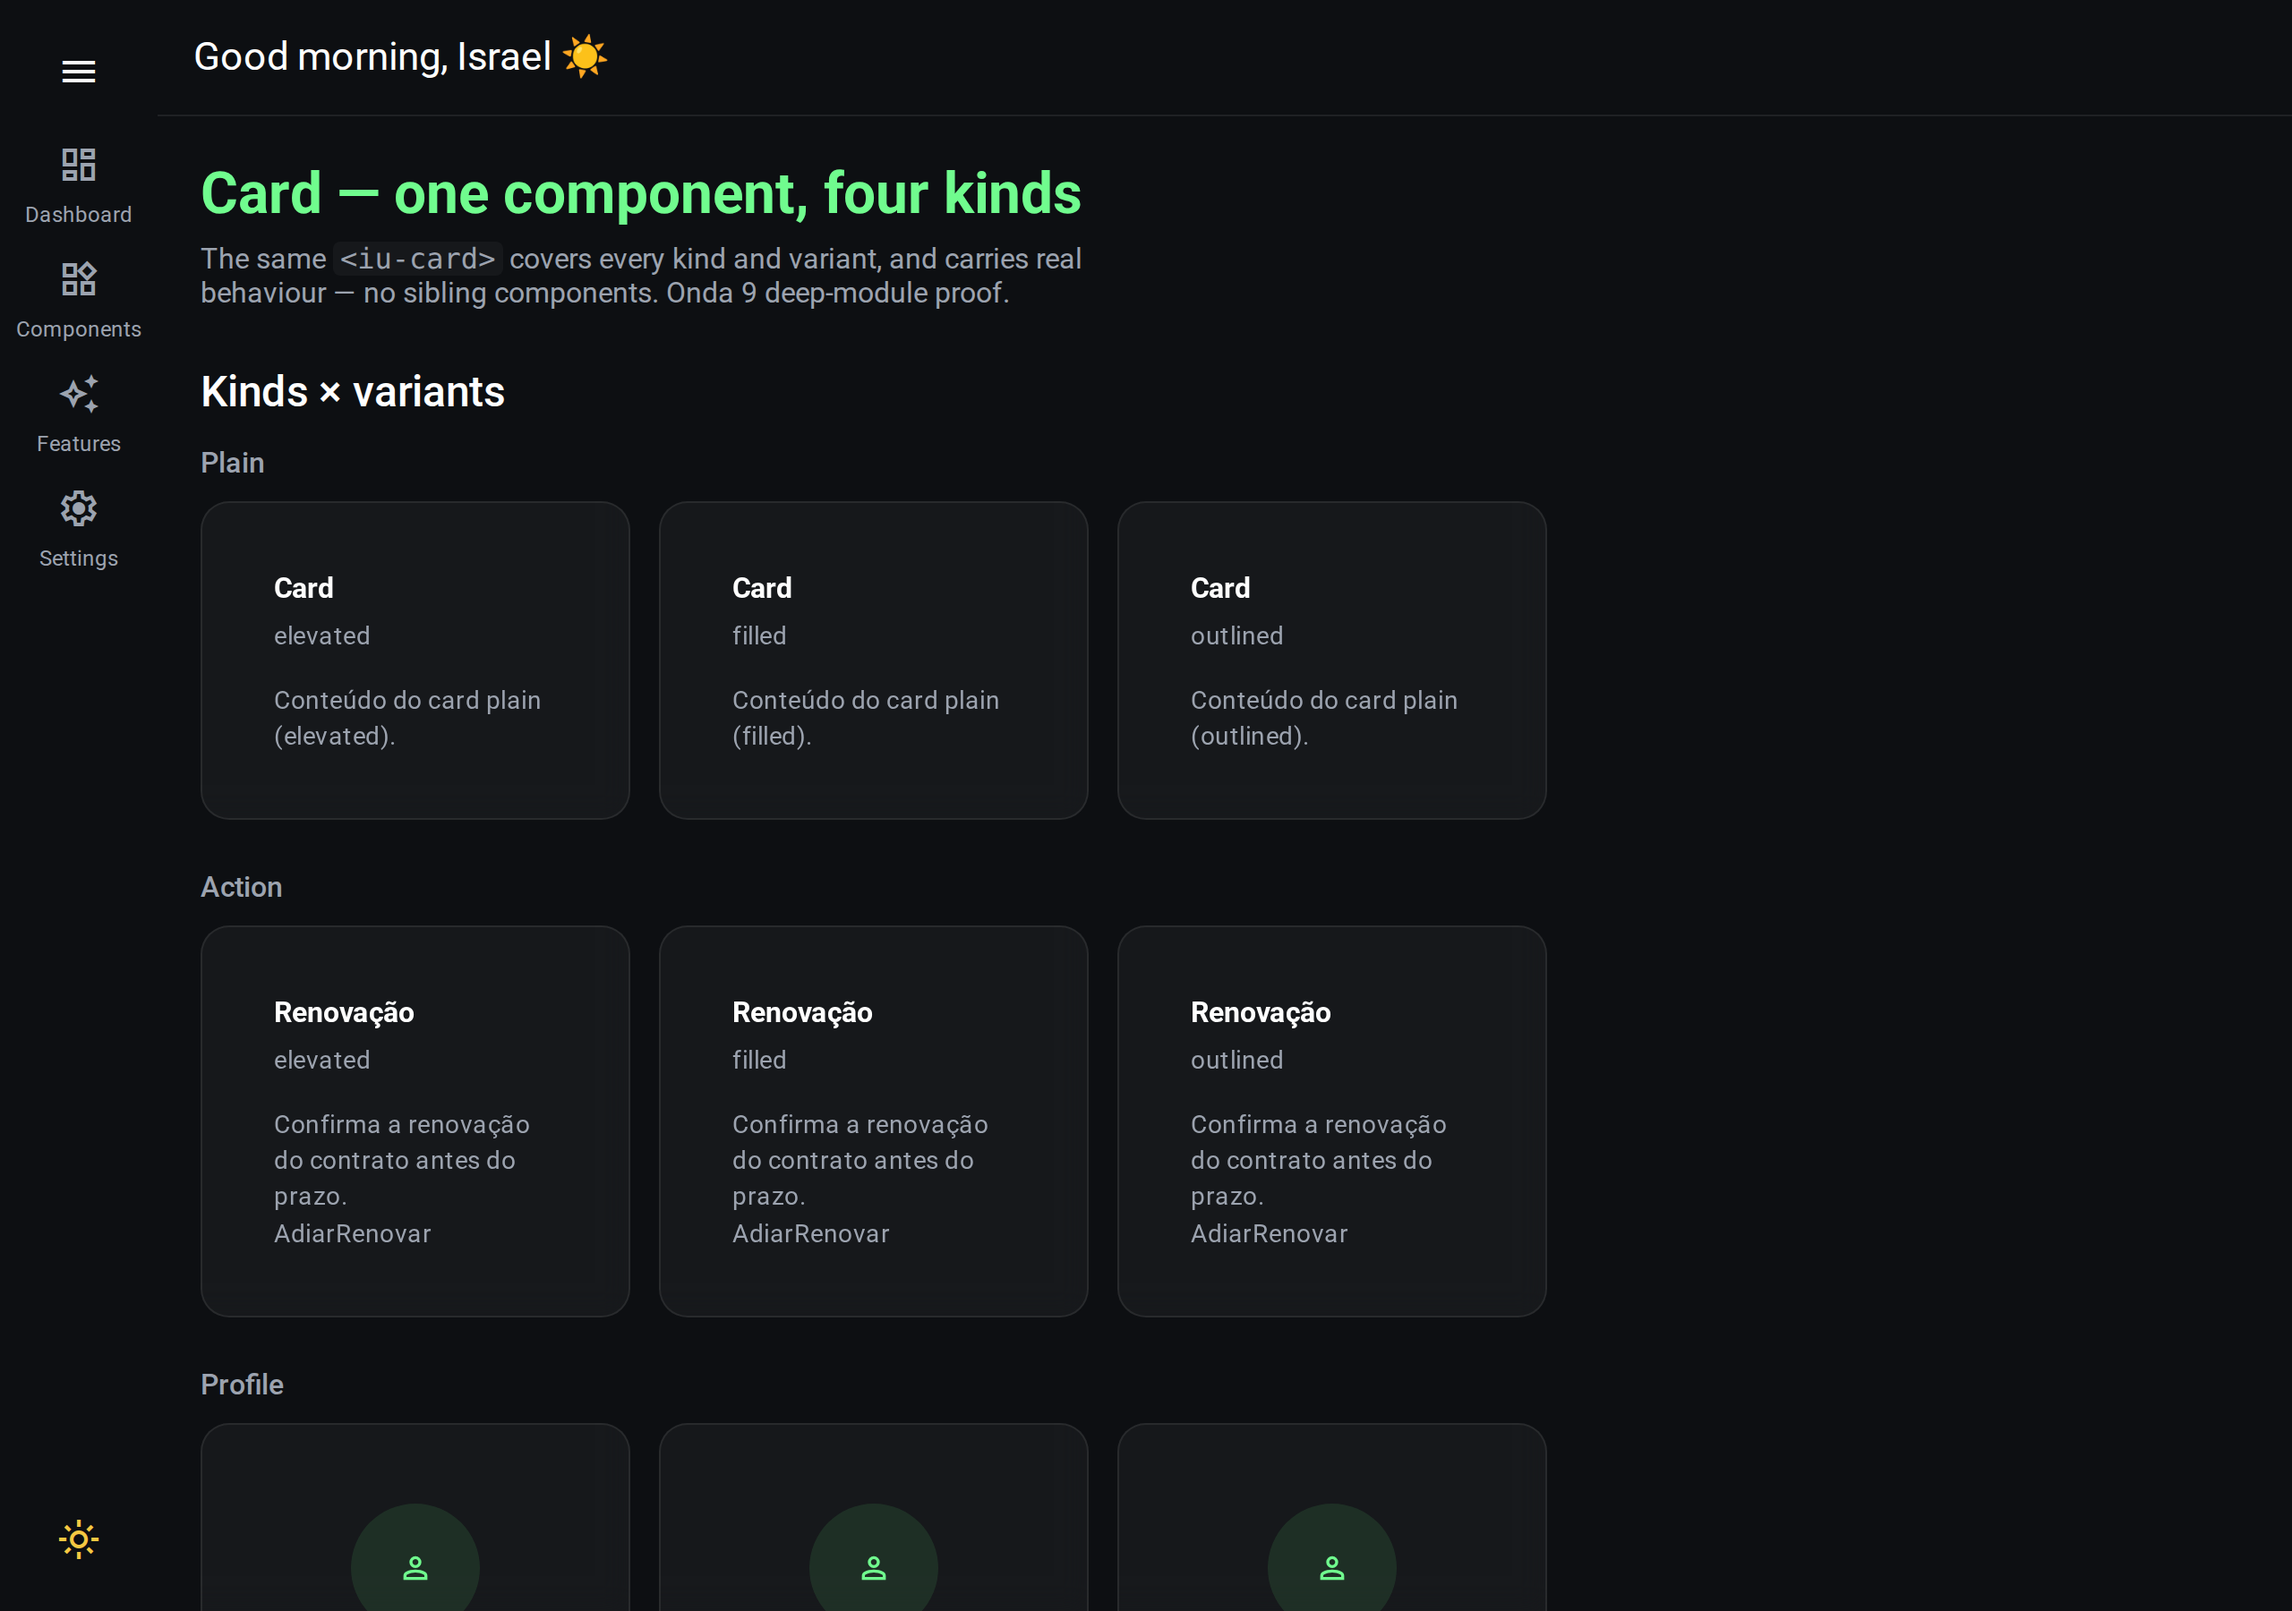
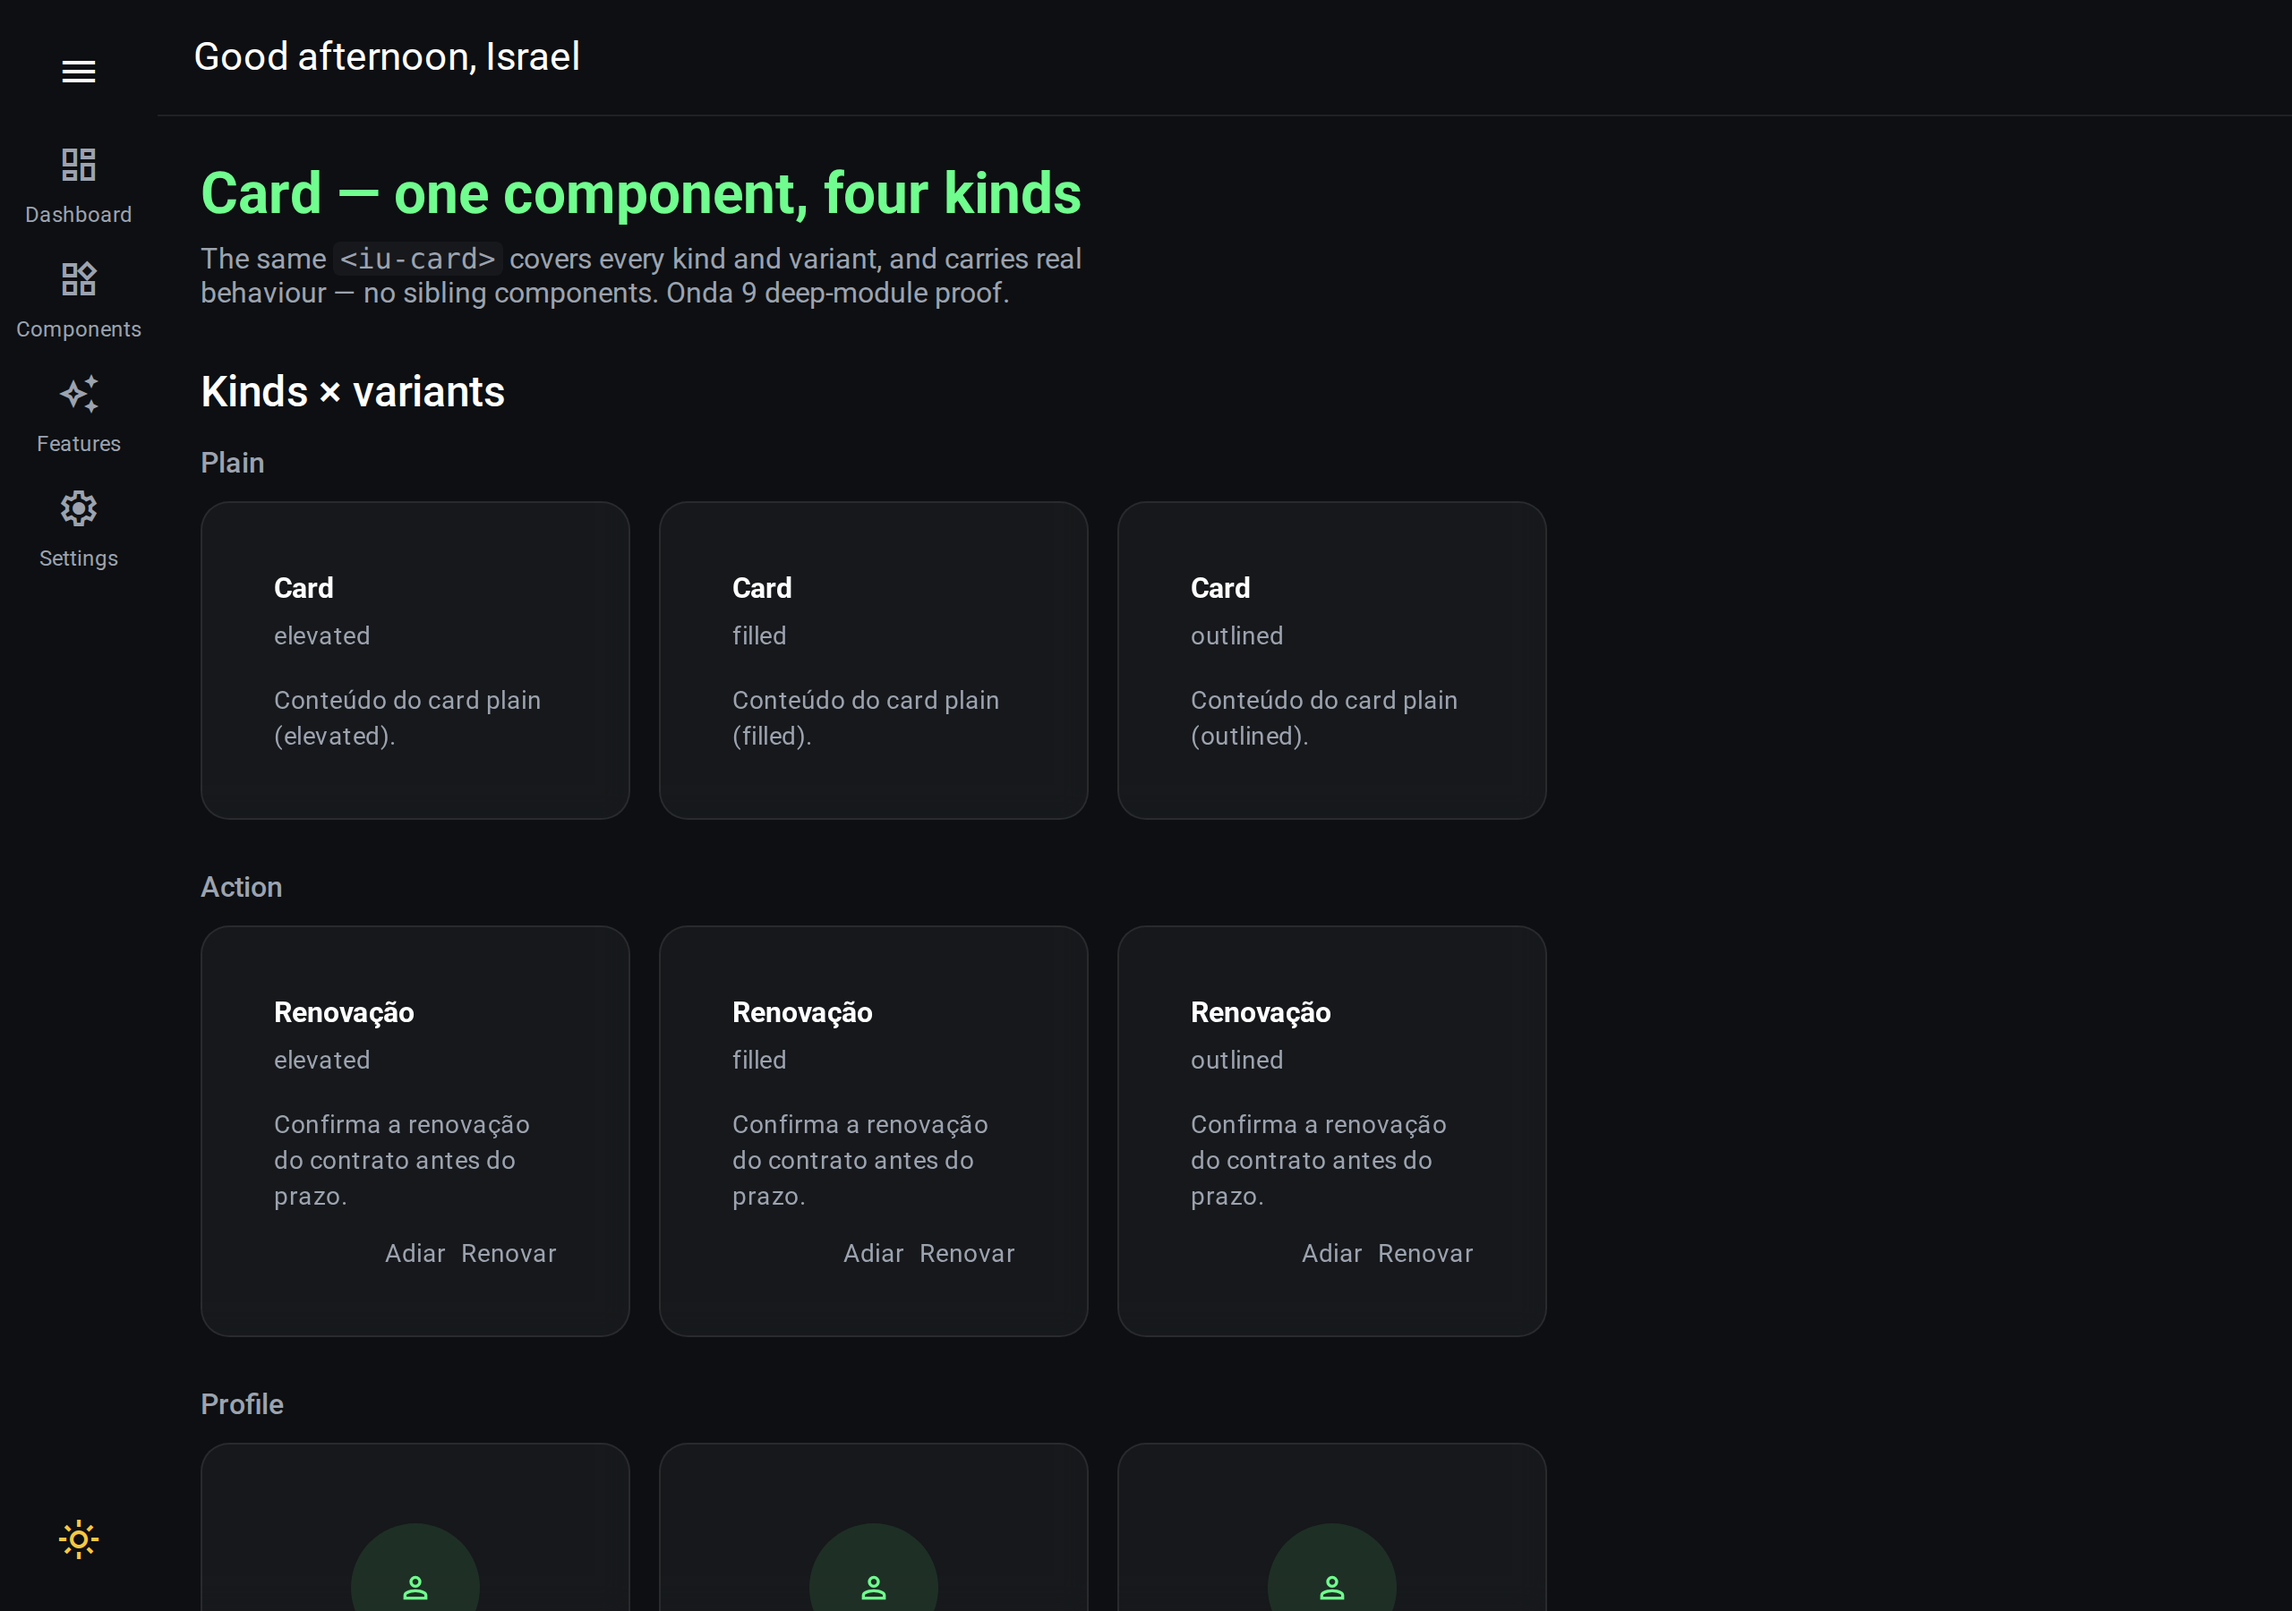
fix(card-v2): showcase action footer — valid button variant + action-row layout
- variant="filled" era inválido (ButtonVariant não tem 'filled') → caía no
  @default (text-button); troca para 'primary' (md-filled-button real).
- slot=footer sem layout → botões colavam ('AdiarRenovar'); adiciona
  .card-actions (flex, gap, justify-end) = action-row M3.
- screenshots regenerados (spacing correto).

NB: md-* web components não fazem upgrade no build de produção
(customElements.get('md-filled-button')===false) — tree-shake dos
side-effect imports de @material/web. Botões saem como texto cru em prod
app-wide; fix + regen de screenshots fica para o turno cheio (NG-03).

diff --git a/apps/dashboard/src/app/pages/card-showcase-page.component.ts b/apps/dashboard/src/app/pages/card-showcase-page.component.ts
@@ -60,9 +60,9 @@ import type { CardKind, CardVariant } from '@israel-ui/core';
                     }
                     @case ('action') {
                       <p>Confirma a renovação do contrato antes do prazo.</p>
-                      <div slot="footer">
+                      <div slot="footer" class="card-actions">
                         <iu-button variant="text" label="Adiar"></iu-button>
-                        <iu-button variant="filled" label="Renovar"></iu-button>
+                        <iu-button variant="primary" label="Renovar"></iu-button>
                       </div>
                     }
                     @default {
@@ -231,6 +231,13 @@ import type { CardKind, CardVariant } from '@israel-ui/core';
       font-size: 2rem;
       font-weight: 700;
       color: var(--md-sys-color-primary, #6750a4);
+    }
+    .card-actions {
+      display: flex;
+      justify-content: flex-end;
+      align-items: center;
+      gap: 8px;
+      margin-top: 12px;
     }
     .hint {
       align-self: center;
